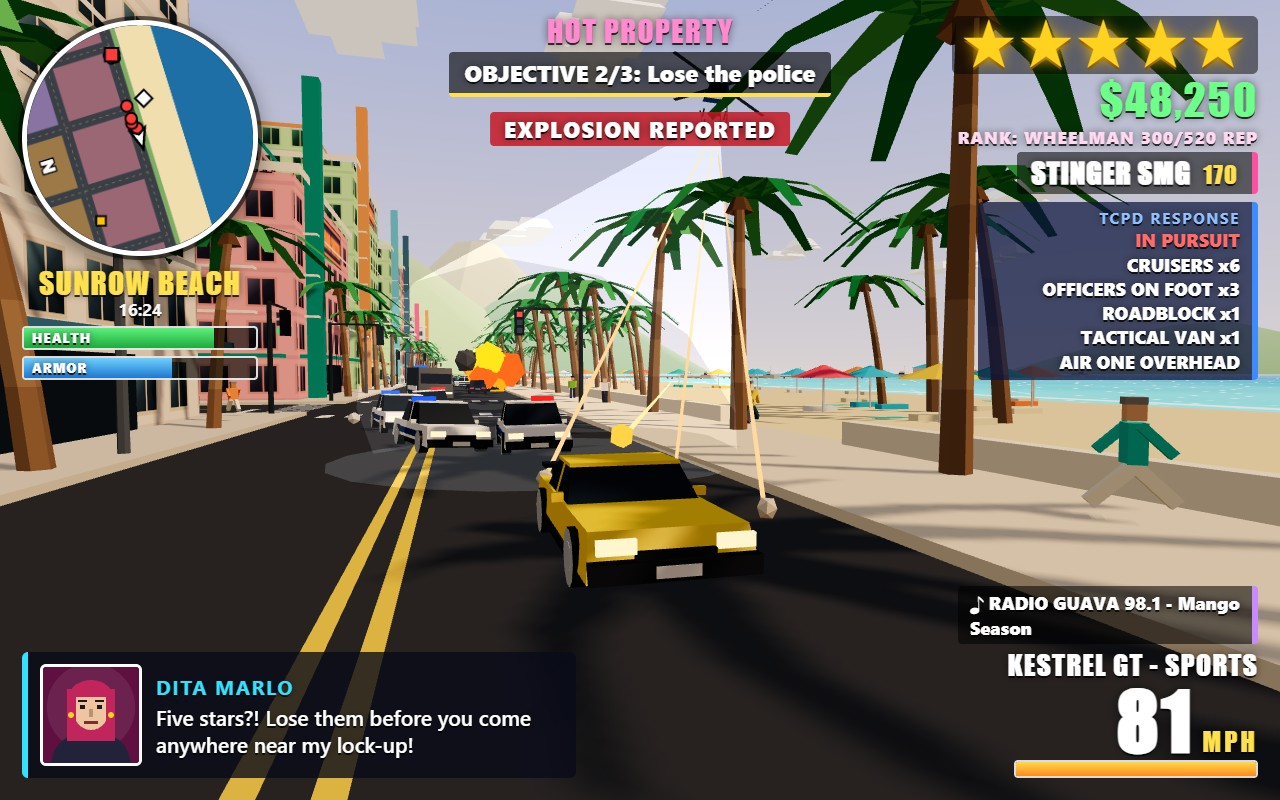
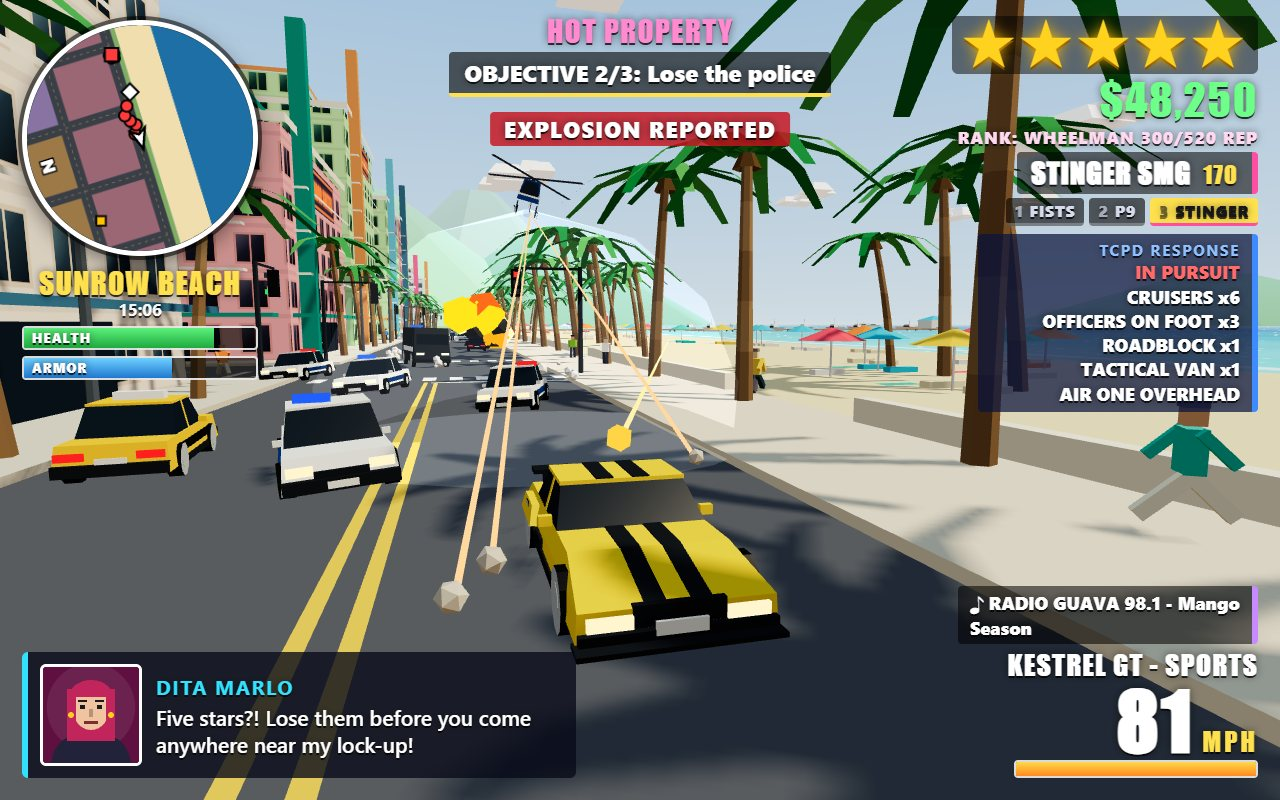
Polish the cover: wedge sports car, brighter boulevard, weapon rack
The Kestrel GT gets a wedge body with racing stripes, the asphalt is
sun-bleached so cars read against it, the HUD lists every owned weapon,
and the chase scene shows Air One, four cruisers and a cab in frame.
All four screenshots retaken from the game.

diff --git a/game/src/vehicles/vehicleModels.js b/game/src/vehicles/vehicleModels.js
@@ -24,6 +24,42 @@ function addWheel(b, x, z, radius) {
   b.setTransform(null);
 }
 
+/** Racing stripes read dark on a bright paint and white on a dark one. */
+function stripeColorFor(paint) {
+  const r = (paint >> 16) & 255, g = (paint >> 8) & 255, bl = paint & 255;
+  return 0.299 * r + 0.587 * g + 0.114 * bl > 120 ? TRIM : 0xf4f4ee;
+}
+
+/**
+ * The sports car's wedge body: a low tub, a deck whose bonnet drops away to a front
+ * splitter, flared rear arches and dark side intakes. Returns where the flat deck ends.
+ */
+function buildSportsWedge(b, L, W, floor, bodyH, paint) {
+  const tubH = bodyH * 0.56, deckY = floor + tubH;
+  const bonnetZ = L * 0.27, tailZ = -L * 0.46;
+  b.prism(0, floor, 0, W, tubH, L, paint, { topX: W * 0.98 });
+  b.prism(0, deckY, 0, W * 0.98, bodyH - tubH, L, paint, { topX: W * 0.9, topZ: bonnetZ - tailZ, shiftZ: (bonnetZ + tailZ) / 2 });
+  b.box(0, floor - 0.07, L / 2 + 0.05, W * 1.02, 0.05, 0.3, TRIM);
+  for (const side of [-1, 1]) {
+    b.prism(side * (W / 2 - 0.02), floor + 0.2, -L * 0.31, 0.2, bodyH - 0.26, L * 0.25, paint, { topX: 0.1, topZ: L * 0.18 });
+    b.box(side * (W / 2), floor + 0.08, -L * 0.1, 0.05, tubH * 0.5, L * 0.12, TRIM);
+  }
+  return { deckY, bonnetZ, tailZ };
+}
+
+/** Twin stripes from the splitter over the bonnet, the roof and the tail deck. */
+function addRacingStripes(b, L, W, topY, wedge, roof, paint) {
+  const color = stripeColorFor(paint);
+  const lift = 0.014, width = W * 0.11;
+  for (const side of [-1, 1]) {
+    const x = side * W * 0.115, x0 = x - width / 2, x1 = x + width / 2;
+    b.quad([x0, wedge.deckY + lift, L / 2 + 0.005], [x1, wedge.deckY + lift, L / 2 + 0.005], [x1, topY + lift, wedge.bonnetZ], [x0, topY + lift, wedge.bonnetZ], color);
+    b.box(x, topY, (wedge.bonnetZ + roof.frontZ) / 2, width, lift, wedge.bonnetZ - roof.frontZ, color);
+    b.box(x, roof.y, roof.z, width, lift, roof.length, color);
+    b.box(x, topY, (roof.backZ + wedge.tailZ) / 2, width, lift, roof.backZ - wedge.tailZ, color);
+  }
+}
+
 /** The merged body geometry for a catalogue entry in one paint colour. Faces +z. */
 function buildBodyGeometry(spec, paint) {
   const b = new MeshBuilder();
@@ -42,7 +78,8 @@ function buildBodyGeometry(spec, paint) {
     b.box(0, floor + bodyH * 0.3, 0, W + 0.04, bodyH * 0.14, L * 0.7, second);
   } else {
     const bodyH = style === 'sports' ? 0.5 : style === 'pickup' ? 0.75 : 0.58;
-    b.prism(0, floor, 0, W, bodyH, L, paint, { topX: W * 0.94, topZ: L * 0.93, shiftZ: -L * 0.015 });
+    const wedge = style === 'sports' ? buildSportsWedge(b, L, W, floor, bodyH, paint) : null;
+    if (!wedge) b.prism(0, floor, 0, W, bodyH, L, paint, { topX: W * 0.94, topZ: L * 0.93, shiftZ: -L * 0.015 });
     // Dark sills, a grille and number plates break up the slab sides.
     b.box(0, floor - 0.04, 0, W + 0.03, 0.14, L * 0.6, TRIM);
     b.box(0, floor + 0.1, L / 2 - 0.02, W * 0.46, bodyH * 0.42, 0.08, TRIM);
@@ -79,6 +116,10 @@ function buildBodyGeometry(spec, paint) {
       b.box(W * 0.36, floor + bodyH, -L / 2 + 0.22, 0.06, 0.16, 0.1, TRIM);
       b.box(-W * 0.36, floor + bodyH, -L / 2 + 0.22, 0.06, 0.16, 0.1, TRIM);
     }
+    if (wedge) {
+      const roof = { y: floor + bodyH + cabinH + 0.05, z: cabinZ - cabinL * 0.04, length: cabinL * plan.top, frontZ: cabinZ + cabinL / 2, backZ: cabinZ - cabinL / 2 };
+      addRacingStripes(b, L, W, floor + bodyH, wedge, roof, paint);
+    }
     if (style === 'muscle') b.box(0, floor + bodyH, L * 0.22, 0.5, 0.1, L * 0.3, TRIM);
     if (spec.stripe) b.box(0, floor + bodyH * 0.35, 0, W + 0.04, bodyH * 0.3, L * 0.5, spec.stripe);
     if (spec.roofSign) b.box(0, H + 0.02, cabinZ, 0.9, 0.2, 0.34, spec.roofSign);
@@ -86,14 +127,18 @@ function buildBodyGeometry(spec, paint) {
   }
 
   // Bumpers, lights and wheels.
-  b.box(0, floor, L / 2, W * 0.98, 0.22, 0.16, TRIM);
-  b.box(0, floor, -L / 2, W * 0.98, 0.22, 0.16, TRIM);
+  // The sports car carries slim bumpers and slim lamps low on its nose.
+  const sporty = style === 'sports';
+  const bumperH = sporty ? 0.09 : 0.22;
+  b.box(0, floor, L / 2, W * 0.98, bumperH, 0.16, TRIM);
+  b.box(0, floor, -L / 2, W * 0.98, bumperH, 0.16, TRIM);
   // Lamps are a separate unlit mesh, so headlights and tail lights glow after dark.
   const lamps = new MeshBuilder();
-  const lightY = floor + (style === 'van' || style === 'truck' ? 0.5 : 0.3);
+  const lightY = floor + (style === 'van' || style === 'truck' ? 0.5 : sporty ? 0.11 : 0.3);
+  const lampH = sporty ? 0.12 : 0.16;
   for (const side of [-1, 1]) {
-    lamps.box(side * W * 0.34, lightY, L / 2 + 0.02, W * 0.22, 0.16, 0.08, 0xfff6cf, { bottom: true });
-    lamps.box(side * W * 0.34, lightY, -L / 2 - 0.02, W * 0.24, 0.14, 0.08, 0xff1f1f, { bottom: true });
+    lamps.box(side * W * 0.34, lightY, L / 2 + 0.02, W * 0.22, lampH, 0.08, 0xfff6cf, { bottom: true });
+    lamps.box(side * W * 0.34, lightY, -L / 2 - 0.02, W * 0.24, lampH - 0.02, 0.08, 0xff1f1f, { bottom: true });
   }
   if (style === 'sports' || style === 'muscle') lamps.box(0, lightY + 0.02, -L / 2 - 0.02, W * 0.4, 0.05, 0.06, 0xff1f1f);
   const axle = L * 0.31, track = W / 2 - 0.08;

diff --git a/game/src/shots/screenshotScenes.js b/game/src/shots/screenshotScenes.js
@@ -30,7 +30,8 @@ function midMission(game, speaker, line) {
 /** Cover: five stars on Sunrow Boulevard in a stolen Kestrel GT, mid-way through "Hot Property". */
 function stageChase(game) {
   equip(game, 48250, 300, 1);
-  game.city.daylight.setHour(16.4);
+  // Mid-afternoon: the sun stands high enough to light the boulevard between the palm shadows.
+  game.city.daylight.setHour(15.1);
   game.player.state.health = 82;
   game.player.state.armor = 64;
   game.weapons.select('pistol');
@@ -47,25 +48,28 @@ function stageChase(game) {
   game.wanted.setStars(5, 120);
   const west = -Math.PI / 2;
   game.police.dispatch('cruiser', { x: car.x + 8, z: BOULEVARD - 2.4, heading: west, speed: 38 });
-  game.police.dispatch('cruiser', { x: car.x + 14, z: BOULEVARD + 4.2, heading: west, speed: 38 });
-  game.police.dispatch('cruiser', { x: car.x + 21, z: BOULEVARD - 5, heading: west, speed: 38 });
-  game.police.dispatch('cruiser', { x: car.x + 28, z: BOULEVARD + 0.4, heading: west, speed: 38 });
+  game.police.dispatch('cruiser', { x: car.x + 12, z: BOULEVARD + 6.1, heading: west, speed: 38 });
+  game.police.dispatch('cruiser', { x: car.x + 19, z: BOULEVARD + 0.7, heading: west, speed: 38 });
+  game.police.dispatch('cruiser', { x: car.x + 27, z: BOULEVARD - 4.4, heading: west, speed: 38 });
   game.police.dispatch('tactical', { x: car.x + 37, z: BOULEVARD - 2.6, heading: west, speed: 36 });
   game.police.buildRoadblock(car.x + 84, BOULEVARD, true);
   // One cruiser has already lost the argument: it goes up in flames behind the pack.
   const loser = game.fleet.spawn('cruiser', car.x + 50, BOULEVARD + 4.6, west + 0.7, { role: 'police' });
   game.fleet.damage(loser, 999, true);
   loser.fuse = 0.58;
-  game.helicopter.placeOnStation(Math.PI / 2 - 0.7);
+  // Air One trails the chase low over the boulevard, searchlight and door gun on the Kestrel.
+  game.helicopter.placeOnStation(1.36, 41, 14);
   game.helicopter.state.cooldown = 0.71;
+  // A cab on the far side of the boulevard has pulled over to let the chase through.
+  game.fleet.spawn('cabana', car.x - 19, BOULEVARD - 5.2, Math.PI / 2 + 0.12, {});
   // Mara fires an SMG back at them from the driver's seat.
   game.weapons.give('smg', 180);
   game.weapons.select('smg');
   game.input.state.fire = true;
   game.autopilot = { throttle: 0.35, steer: 0, handbrake: false };
   midMission(game, 'dita', 'Five stars?! Lose them before you come anywhere near my lock-up!');
-  game.cameraRig.state.zoom = 1.0;
-  game.cameraRig.state.pitch = 0.07;
+  game.cameraRig.state.zoom = 0.88;
+  game.cameraRig.state.pitch = 0.16;
   game.cameraRig.snap(Math.PI / 2 - 0.3);
   return 46;
 }

diff --git a/game/src/police/policeHelicopter.js b/game/src/police/policeHelicopter.js
@@ -50,16 +50,21 @@ export function createPoliceHelicopter(game) {
   pool.visible = false;
   game.scene.add(beam, pool);
 
-  const state = { active: false, x: 0, y: 120, z: 0, heading: 0, orbit: 0, cooldown: 3, spotX: 0, spotZ: 0 };
+  const state = { active: false, x: 0, y: 120, z: 0, heading: 0, orbit: 0, radius: ORBIT_RADIUS, height: CRUISE_HEIGHT, cooldown: 3, spotX: 0, spotZ: 0 };
 
-  /** Put the helicopter straight on station (screenshot scenes and mission set-pieces). */
-  function placeOnStation(orbitAngle = 0.6) {
+  /**
+   * Put the helicopter straight on station (screenshot scenes and mission set-pieces).
+   * A wider, lower station than the default has it trail the chase down the street.
+   */
+  function placeOnStation(orbitAngle = 0.6, radius = ORBIT_RADIUS, height = CRUISE_HEIGHT) {
     const p = game.player.position();
     state.active = true;
     state.orbit = orbitAngle;
-    state.x = p.x + Math.sin(orbitAngle) * ORBIT_RADIUS;
-    state.z = p.z + Math.cos(orbitAngle) * ORBIT_RADIUS;
-    state.y = CRUISE_HEIGHT;
+    state.radius = radius;
+    state.height = height;
+    state.x = p.x + Math.sin(orbitAngle) * radius;
+    state.z = p.z + Math.cos(orbitAngle) * radius;
+    state.y = height;
     state.spotX = p.x;
     state.spotZ = p.z;
   }
@@ -84,6 +89,8 @@ export function createPoliceHelicopter(game) {
       state.y = 90;
       state.spotX = state.x;
       state.spotZ = state.z;
+      state.radius = ORBIT_RADIUS;
+      state.height = CRUISE_HEIGHT;
       game.events.emit('helicopterInbound', {});
     }
     if (!state.active) {
@@ -98,9 +105,9 @@ export function createPoliceHelicopter(game) {
     let goalX, goalZ, goalY;
     if (stars >= 3) {
       state.orbit += dt * 0.35;
-      goalX = focus.x + Math.sin(state.orbit) * ORBIT_RADIUS;
-      goalZ = focus.z + Math.cos(state.orbit) * ORBIT_RADIUS;
-      goalY = CRUISE_HEIGHT;
+      goalX = focus.x + Math.sin(state.orbit) * state.radius;
+      goalZ = focus.z + Math.cos(state.orbit) * state.radius;
+      goalY = state.height;
     } else {
       goalX = state.x - 60;
       goalZ = state.z - 60;

diff --git a/game/styles/hud.css b/game/styles/hud.css
@@ -31,6 +31,10 @@ body { font-family: "Segoe UI", "Helvetica Neue", Arial, sans-serif; color: #fff
 #reputation-rank { font-size: 17px; font-weight: 800; letter-spacing: 0.06em; color: #ffd9f0; }
 #weapon-slot { display: flex; gap: 12px; align-items: baseline; padding: 4px 14px; font-size: 28px; background: rgba(0, 0, 0, 0.55); border-right: 6px solid #ff4fa3; border-radius: 4px; }
 #weapon-ammo { font-size: 24px; color: #ffe14f; }
+#weapon-rack { display: flex; gap: 5px; }
+#weapon-rack span { padding: 2px 9px; font-size: 16px; font-weight: 800; letter-spacing: 0.04em; color: #d5dbea; background: rgba(0, 0, 0, 0.6); border-bottom: 3px solid rgba(255, 255, 255, 0.25); border-radius: 4px; }
+#weapon-rack span.held { color: #15171a; background: #ffe14f; border-bottom-color: #ff4fa3; }
+#weapon-rack i { margin-right: 6px; font-style: normal; opacity: 0.65; }
 #police-dispatch { margin-top: 4px; padding: 6px 12px; min-width: 250px; font-size: 18px; font-weight: 800; line-height: 1.35; text-align: right; background: rgba(10, 20, 60, 0.72); border-right: 6px solid #3d8bff; border-radius: 4px; }
 #police-dispatch:empty { display: none; }
 #police-dispatch h4 { margin: 0; font-size: 15px; letter-spacing: 0.12em; color: #8fc0ff; }

diff --git a/game/src/ui/hud.js b/game/src/ui/hud.js
@@ -28,6 +28,17 @@ export function createHud(game) {
     el(id).classList.toggle(className, on);
   }
 
+  /** The weapon rack: every weapon the player owns by its number key, the one in hand lit. */
+  function weaponRack(heldKey) {
+    let rack = '';
+    for (const key of Object.keys(WEAPONS)) {
+      if (!game.weapons.state.owned[key]) continue;
+      const label = WEAPONS[key].name.split(' ')[0].toUpperCase();
+      rack += '<span class="' + (key === heldKey ? 'held' : 'holstered') + '"><i>' + WEAPONS[key].slot + '</i>' + label + '</span>';
+    }
+    return rack;
+  }
+
   /** A large centre-screen message: job done, knocked out, arrested. */
   function announce(title, detail = '', color = '#ffe14f', seconds = 4) {
     put('big-message-title', title);
@@ -94,6 +105,7 @@ export function createHud(game) {
     const weaponKey = game.weapons.state.current;
     put('weapon-name', WEAPONS[weaponKey].name.toUpperCase());
     put('weapon-ammo', WEAPONS[weaponKey].melee ? '' : String(game.weapons.state.ammo[weaponKey]));
+    put('weapon-rack', weaponRack(weaponKey), true);
     put('police-dispatch', policeResponse(), true);
 
     const p = game.player.position();

diff --git a/game/src/city/streetFurniture.js b/game/src/city/streetFurniture.js
@@ -6,7 +6,8 @@ import { createRandom } from '../core/seededRandom.js';
 import { CITY } from './cityLayout.js';
 import { STOP_DISTANCE } from './roadNetwork.js';
 
-const ASPHALT = 0x3d4148;
+// Sun-bleached asphalt: light enough that cars and palm shadows read against it.
+const ASPHALT = 0x5c616b;
 const LINE_YELLOW = 0xf2c744;
 const LINE_WHITE = 0xf1f1ee;
 

diff --git a/game/index.html b/game/index.html
@@ -25,6 +25,7 @@
     <div id="cash">$0</div>
     <div id="reputation-rank"></div>
     <div id="weapon-slot"><b id="weapon-name"></b><span id="weapon-ammo"></span></div>
+    <div id="weapon-rack" aria-label="Owned weapons, keys 1 to 5"></div>
     <div id="police-dispatch"></div>
   </div>
   <div id="mission-objective">
